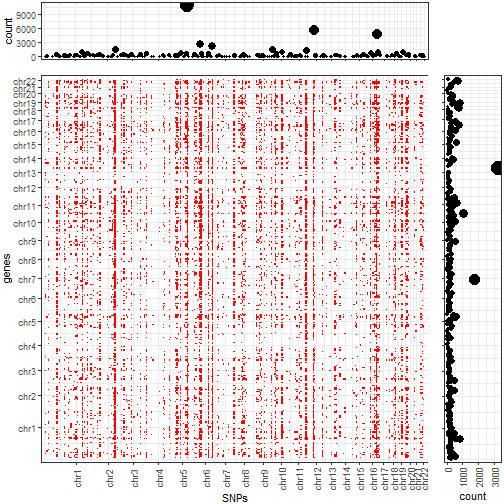
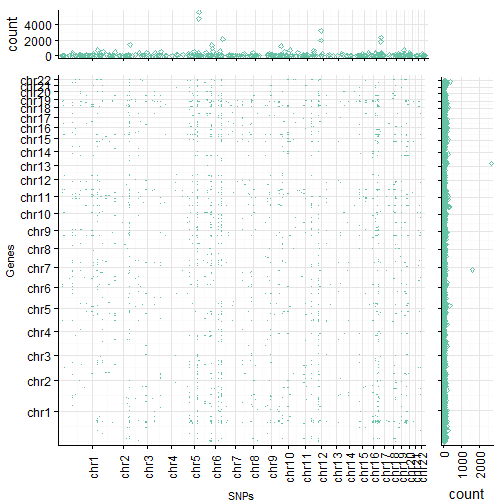
Updated plotting routine.

Changed region(s): [[0.0, 0.1488, 1.0, 1.0], [0.0, 0.0, 0.8631, 0.119]]

diff --git a/_posts/2019-05-08-genome-wide-pairs-plot.md b/_posts/2019-05-08-genome-wide-pairs-plot.md
@@ -42,12 +42,14 @@ overview on trans-eQTLs identified in whole blood data.
 
 ## Data preparation
 As a first step, we load the eQTLgen trans-eQTLs and create GenomicRanges objects, i.e.
-objects to easily handle genomic position annotations.
+objects to easily handle genomic position annotations. We also filter for 'real' trans eQTL (a matter of definition), in our case this means that SNP and Gene are on distinct chromosomes.
 
 
 {% highlight r %}
 # load eQTL data
-eqtl <- read_tsv("https://molgenis26.gcc.rug.nl/downloads/eqtlgen/trans-eqtl/trans-eQTL_significant_20181017.txt.gz")
+#eqtl <- read_tsv("https://molgenis26.gcc.rug.nl/downloads/eqtlgen/trans-eqtl/trans-eQTL_significant_20181017.txt.gz")
+eqtl <- read_tsv("d:/eQTLgen/trans-eQTL_significant_20181017.txt.gz") %>%
+  filter(SNPChr != GeneChr)
 
 # get the number of associations per SNP
 ntrans_per_snp <- group_by(eqtl, SNP) %>% summarise(ntrans=n())
@@ -82,7 +84,7 @@ trans_genes <- with(eqtl,
 {% endhighlight %}
 
 Ok, nice! We now got all our data loaded and have them neatly available as GenomicRanges objects.
-We are looking at  SNPs which are associated with a total of 5573 genes ( total associations).
+We are looking at  SNPs which are associated with a total of 5455 genes ( total associations).
 Now, since we want to do a genome-wide plot, we need to get some information on the size of the chromosomes etc. in order to be able to indicate chromosome boundaries.
 For that, we get the hg19 genome annotation and extract the sequence lengths for chromosomes 1-22.
 We further tile our genome information into tiles (or bins) of size 10MB. 
@@ -99,7 +101,7 @@ chrlen <- chrlen[paste0("chr", 1:22)]
 # tile the genome
 genome_bins <-
   tileGenome(chrlen,
-             tilewidth = 1e7,
+             tilewidth = 1e6,
              cut.last.tile.in.chrom = T)
 
 # define breaks (used to get a nice, scaled 
@@ -147,72 +149,77 @@ Let's keep it brief, I added some comments to the code (as I'm supposed to do an
 
 
 {% highlight r %}
-# set a less obstrusive theme and adjust margins
-theme_set(theme_bw())
-theme_update(plot.margin = margin(0, 0, 0, 0, "cm"))
+# Since we use cowplot, we do not perform any theme adjustments just yet
 
+# get some nice qualitative colors
+cols <- brewer.pal("Set2", n=3)
+color <- cols[1]
 # create the plot for the x-axis margin, single points
-xmp <-
-  ggplot(x_margin) + geom_point(aes(x = x_bin, y = count, size=count)) + 
-  scale_size_continuous(guide=F) + 
-  scale_x_continuous(
-    expand = c(0.01, 0.01),
-    breaks = as.vector(breaks),
-    labels = NULL
-  ) + xlab("") + theme(plot.margin = margin(0.1, 0, 0, 0.1, "cm"))
-
-# create the plot for the y-axis margin, single points
-ymp <- ggplot(y_margin) +
-  geom_point(aes(x = y_bin, y = count, size=count)) +
+xmp <- ggplot(x_margin) + 
+    geom_point(aes(x=x_bin, y=count), color=color, shape=23) + 
+    scale_x_continuous(expand = c(0.01, 0.01), breaks = as.vector(breaks), labels = NULL) + 
+    xlab("") + 
+    background_grid(major = "xy")
+  
+ymp <- ggplot(y_margin) + 
+  geom_point(aes(x=y_bin, y=count), color=color, shape=23) + 
   coord_flip() + scale_x_continuous(
     expand = c(0.01, 0.01),
     breaks = as.vector(breaks),
-    labels = NULL
-  ) + xlab("") + theme(
-    plot.margin = margin(0, 0.1, 0.1, 0, "cm"),
-    axis.text.x = element_text(
-      angle = 90,
-      vjust = 0.5,
-      hjust = 1
-    )
-  ) + 
-  scale_size_continuous(guide=F)
-
+    labels = NULL) + 
+  xlab("") + 
+  theme(axis.text.x = element_text(angle=90, 
+                                   vjust=0.5, 
+                                   hjust=1)) + 
+  background_grid(major = "xy")
+  
 # the main matrix plot showing the eQTL information
 g <-
-  ggplot(pairs_binned) +
-  geom_tile(fill = "red", aes(x = x_bin, y = y_bin)) +
+  ggplot(pairs_binned) + 
+  geom_tile(fill=color, width=10,
+            aes(x = x_bin, y = y_bin)) +
   theme(
     text = element_text(size = 11),
     legend.text = element_text(size = 8),
     axis.text.x = element_text(vjust = 0.5, angle = 90),
     legend.title = element_text(size = 10),
-    plot.margin = margin(0, 0, 0, 0, "cm")
-  ) +
-  xlab("SNPs") + ylab("genes") +
+    plot.margin = margin(0,0.1,0,0, "cm")) +
+  xlab("SNPs") + ylab("Genes") +
   scale_x_continuous(
     expand = c(0.01, 0.01),
     breaks = as.vector(breaks),
-    labels = names(breaks)
+    labels = names(breaks),
+    limits = c(1,length(genome_bins))
   ) +
   scale_y_continuous(
     expand = c(0.01, 0.01),
     breaks = as.vector(breaks),
     labels = names(breaks)
-  )
+  ) + background_grid(major = "xy")
 
 # now we got the individual plots, arrange them in a single
 # large plot using grid.arrange
-wr <- c(85, 15)
-hr <- c(15, 85)
 
-grid.arrange(xmp, nullGrob(), g, ymp,
-             ncol = 2, widths = wr, heights = hr)
+wr <- c(85,15)
+hr <- c(15,85)
+side_margins <- margin(0.1,0.7,0.1,-0.9, unit = "lines")
+top_margins <- margin(0.7, 0,-0.6, 0.1, unit = "lines")
+
+# eqtl matrix plot, slightly modify needed parts
+xmp <- xmp + theme(plot.margin = top_margins)
+ymp <- ymp + theme(plot.margin = side_margins)
+
+# now we perform the actual plot, 
+# in this case all gets a little bit crowded, I try to adjust this at a later time
+# but you get the idea
+plot_grid(xmp, nullGrob(), g, ymp, 
+          ncol=2, nrow=2, 
+          rel_widths = wr, rel_heights = hr)
 {% endhighlight %}
 
 <img src="/assets/figures/2019-05-08-genome-wide-pairs-plot/unnamed-chunk-4-1.png" title="center" alt="center" style="display: block; margin: auto;" />
 
-So, as you can see, we create our final plot by arranging three distinct plots in a single frame using the *grid.arrange* function from the *gridExtra* package (including the *nullGrob()* method from the *grid* package).
+So, as you can see, we create our final plot by arranging three distinct plots in a single frame using quite some functions from different packages (e.g. *plot_grid* from the *cowplot* package, and the *nullGrob()* method from the *grid* package).
 The row and column annotations show the total number of entities falling into the respective row or column and the red dots in the main plot indicate the presence of a SNP (columns) associated with a gene (row) for the two chromosome regions.
 This actually looks rather good (well, good enough)! So good in fact that, we are content for now and stop tweaking the plot (I'm lazy today). 
 Anyway, we can see that there are some SNPs or LD blocks which exhibit a huge number of trans associations as well as some regions in the genome which harbor a relatively larger number of genes which are influenced by those SNPs in trans as compared to other regions.
@@ -248,15 +255,16 @@ Until then, farewell!
 ## other attached packages:
 ##  [1] BSgenome.Hsapiens.UCSC.hg19_1.4.0 BSgenome_1.48.0                  
 ##  [3] rtracklayer_1.40.6                Biostrings_2.48.0                
-##  [5] XVector_0.20.0                    gridExtra_2.3                    
-##  [7] GenomicRanges_1.32.7              GenomeInfoDb_1.16.0              
-##  [9] IRanges_2.14.12                   S4Vectors_0.18.3                 
-## [11] BiocGenerics_0.26.0               reshape2_1.4.3                   
-## [13] forcats_0.4.0                     stringr_1.4.0                    
-## [15] dplyr_0.8.0.1                     purrr_0.3.2                      
-## [17] readr_1.3.1                       tidyr_0.8.3                      
-## [19] tibble_2.1.1                      ggplot2_3.1.1                    
-## [21] tidyverse_1.2.1                   knitr_1.22                       
+##  [5] XVector_0.20.0                    cowplot_0.9.4                    
+##  [7] RColorBrewer_1.1-2                gridExtra_2.3                    
+##  [9] GenomicRanges_1.32.7              GenomeInfoDb_1.16.0              
+## [11] IRanges_2.14.12                   S4Vectors_0.18.3                 
+## [13] BiocGenerics_0.26.0               reshape2_1.4.3                   
+## [15] forcats_0.4.0                     stringr_1.4.0                    
+## [17] dplyr_0.8.0.1                     purrr_0.3.2                      
+## [19] readr_1.3.1                       tidyr_0.8.3                      
+## [21] tibble_2.1.1                      ggplot2_3.1.1                    
+## [23] tidyverse_1.2.1                   knitr_1.22                       
 ## 
 ## loaded via a namespace (and not attached):
 ##  [1] Rcpp_1.0.1                  lubridate_1.7.4            
@@ -267,26 +275,25 @@ Until then, farewell!
 ## [11] highr_0.8                   httr_1.4.0                 
 ## [13] pillar_1.3.1                zlibbioc_1.26.0            
 ## [15] rlang_0.3.4                 lazyeval_0.2.2             
-## [17] curl_3.3                    readxl_1.3.1               
-## [19] rstudioapi_0.10             Matrix_1.2-14              
-## [21] labeling_0.3                BiocParallel_1.14.2        
-## [23] RCurl_1.95-4.12             munsell_0.5.0              
-## [25] DelayedArray_0.6.6          broom_0.5.2                
-## [27] compiler_3.5.1              modelr_0.1.4               
-## [29] xfun_0.6                    pkgconfig_2.0.2            
-## [31] tidyselect_0.2.5            SummarizedExperiment_1.10.1
-## [33] GenomeInfoDbData_1.1.0      matrixStats_0.54.0         
-## [35] XML_3.98-1.19               crayon_1.3.4               
-## [37] withr_2.1.2                 GenomicAlignments_1.16.0   
-## [39] bitops_1.0-6                nlme_3.1-137               
-## [41] jsonlite_1.6                gtable_0.3.0               
-## [43] magrittr_1.5                scales_1.0.0               
-## [45] cli_1.1.0                   stringi_1.4.3              
-## [47] xml2_1.2.0                  generics_0.0.2             
-## [49] tools_3.5.1                 Biobase_2.40.0             
-## [51] glue_1.3.1                  hms_0.4.2                  
-## [53] colorspace_1.4-1            rvest_0.3.3                
-## [55] haven_2.1.0
+## [17] readxl_1.3.1                rstudioapi_0.10            
+## [19] Matrix_1.2-14               labeling_0.3               
+## [21] BiocParallel_1.14.2         RCurl_1.95-4.12            
+## [23] munsell_0.5.0               DelayedArray_0.6.6         
+## [25] broom_0.5.2                 compiler_3.5.1             
+## [27] modelr_0.1.4                xfun_0.6                   
+## [29] pkgconfig_2.0.2             tidyselect_0.2.5           
+## [31] SummarizedExperiment_1.10.1 GenomeInfoDbData_1.1.0     
+## [33] matrixStats_0.54.0          XML_3.98-1.19              
+## [35] crayon_1.3.4                withr_2.1.2                
+## [37] GenomicAlignments_1.16.0    bitops_1.0-6               
+## [39] nlme_3.1-137                jsonlite_1.6               
+## [41] gtable_0.3.0                magrittr_1.5               
+## [43] scales_1.0.0                cli_1.1.0                  
+## [45] stringi_1.4.3               xml2_1.2.0                 
+## [47] generics_0.0.2              tools_3.5.1                
+## [49] Biobase_2.40.0              glue_1.3.1                 
+## [51] hms_0.4.2                   colorspace_1.4-1           
+## [53] rvest_0.3.3                 haven_2.1.0
 {% endhighlight %}
 
 
